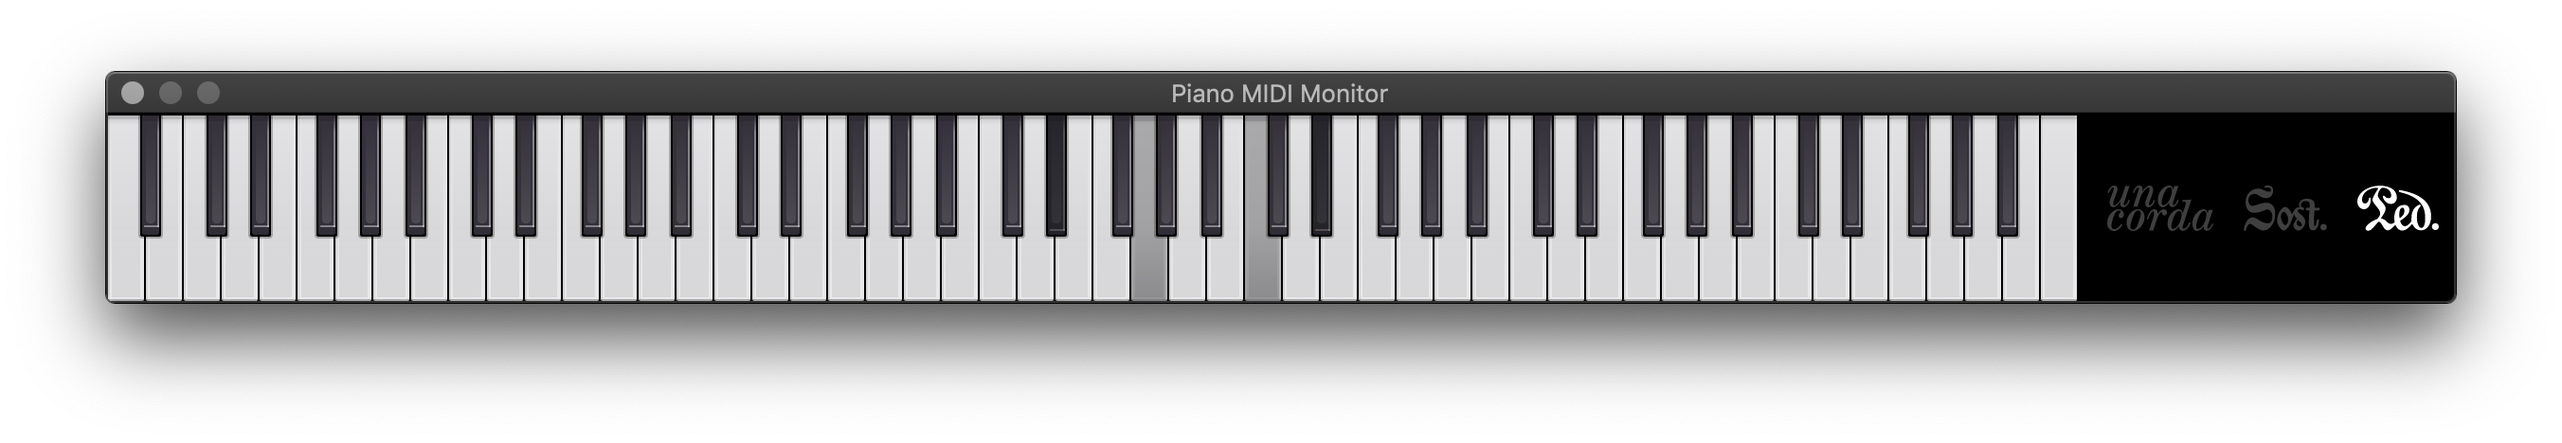
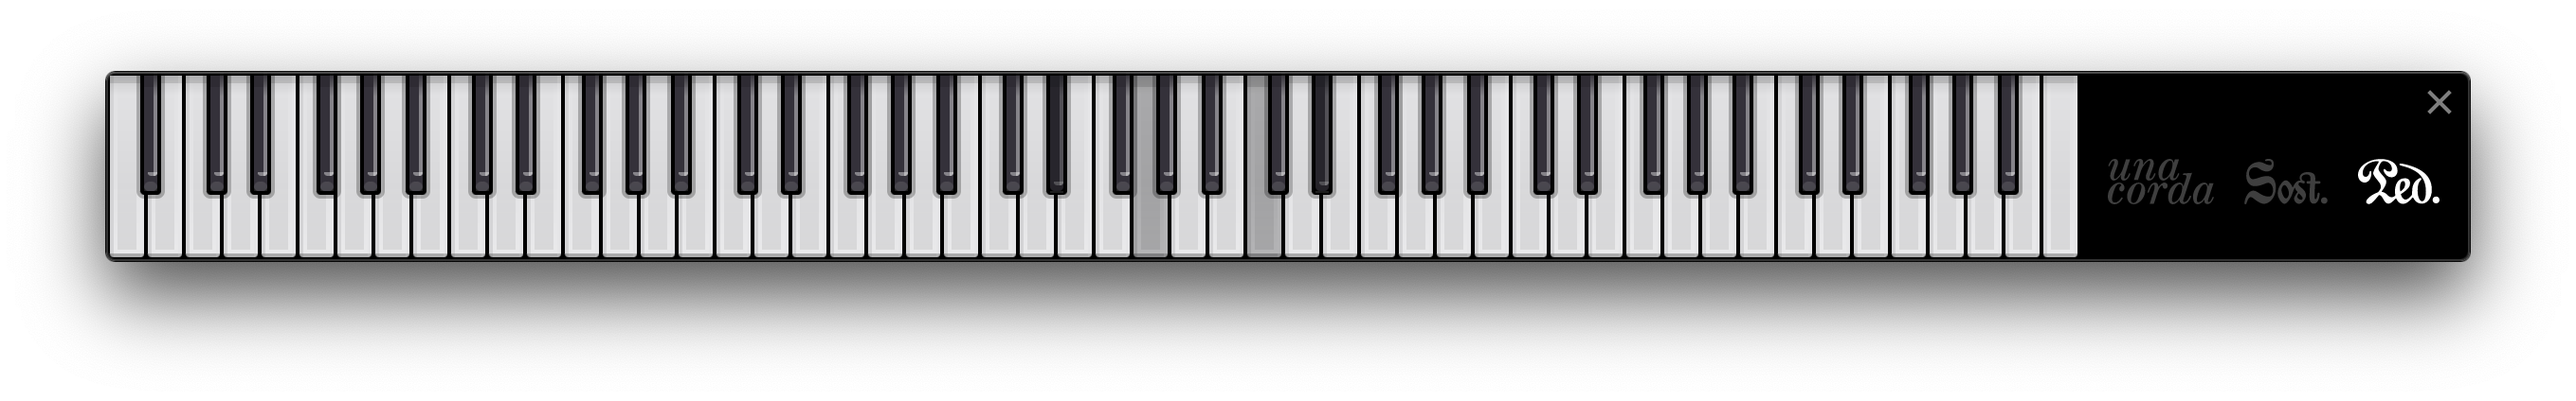
Update app appearance
Use updated version of `react-musical-keyboard`.

Changed region(s): [[0.0311, 0.1533, 0.963, 0.7052]]

diff --git a/src/electron.ts b/src/electron.ts
@@ -1,6 +1,7 @@
 import { app, BrowserWindow, Menu, ipcMain, } from 'electron'
 import path from 'path'
 import fs from 'fs'
+import * as yargs from 'yargs'
 
 import SPANS from './services/spans.json'
 import SCALE_FACTORS from './services/scaleFactors.json'
@@ -79,7 +80,7 @@ app
   .whenReady()
   .then(() => {
     try {
-      const configJsonRaw = fs.readFileSync('./config.json').toString('utf-8')
+      const configJsonRaw = fs.readFileSync(path.join(app.getPath('userData'), 'config.json')).toString('utf-8')
       config = JSON.parse(configJsonRaw)
     } catch (e) {
       config = {
@@ -180,7 +181,10 @@ app
   })
 
 app.on('quit', () => {
-  fs.writeFileSync('./config.json', JSON.stringify(config))
+  if (app.commandLine.hasSwitch('discardConfig')) {
+    return
+  }
+  fs.writeFileSync(path.join(app.getPath('userData'), 'config.json'), JSON.stringify(config))
 })
 
 app.on('window-all-closed', () => {

diff --git a/public/index.html b/public/index.html
@@ -2,7 +2,7 @@
 <html lang="en-PH" style="--size-close-button: 2rem;">
   <head>
     <meta charset="utf-8" />
-    <link rel="icon" href="%PUBLIC_URL%/favicon.ico" />
+    <link rel="icon" href="%PUBLIC_URL%/favicon.png" />
     <meta name="viewport" content="width=device-width, initial-scale=1" />
     <meta name="theme-color" content="#000000" />
     <meta

diff --git a/README.md b/README.md
@@ -2,7 +2,7 @@
 
 Simple monitor for displaying MIDI status for digital pianos.
 
-Supports a keyboard span of **9 octaves** (C0-B8, MIDI note number 12-119), as well as
+Supports a **full MIDI key range**, as well as
 granular pedal status display for **soft pedal/una corda** (MIDI CC number 67),
 **sostenuto** (MIDI CC number 66), and **sustain** (MIDI CC number 64, values from 0-127).
 
@@ -26,11 +26,11 @@ A directory `dist/` should be generated along with build output.
 
 Just run:
 
-```
+```shell script
 yarn start
 ```
 
-Electron should spawn the application window.
+Create React App should run in watch mode, then Electron should spawn the application window shortly.
 
 ## License
 
